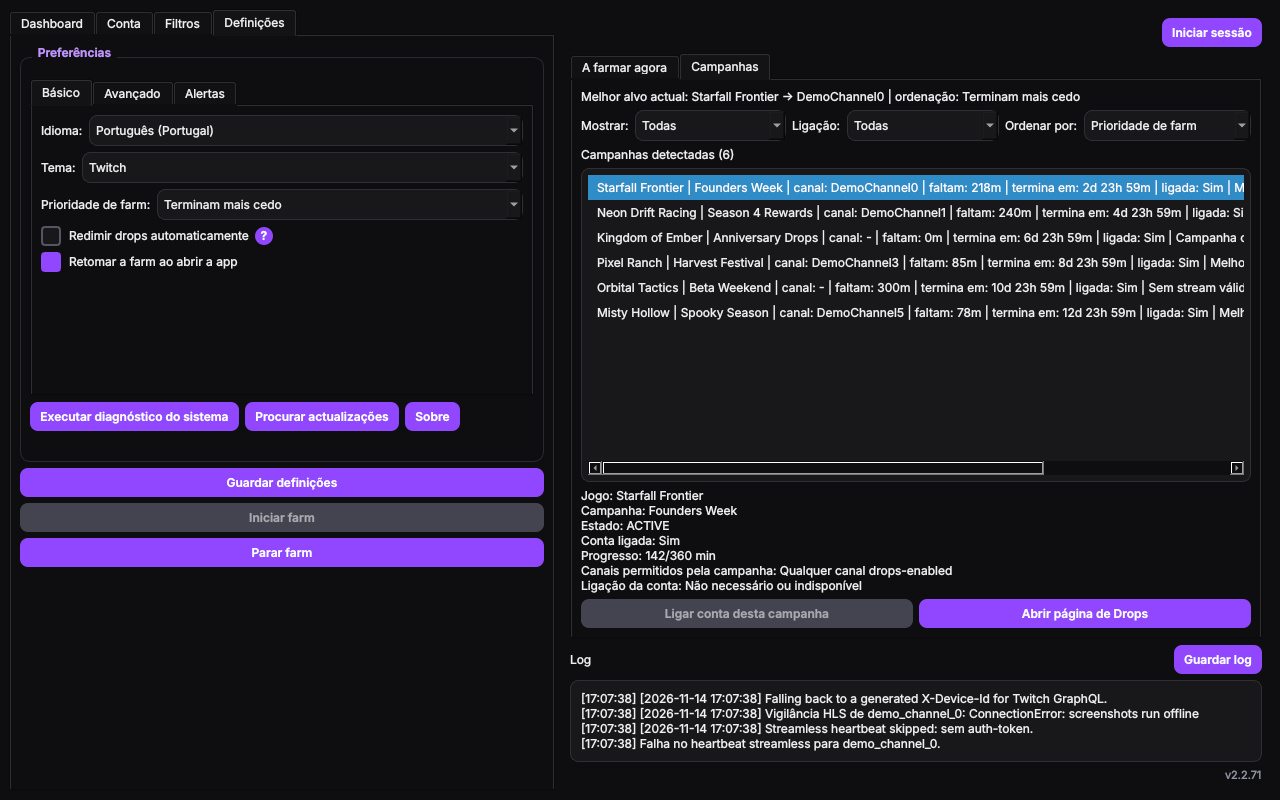
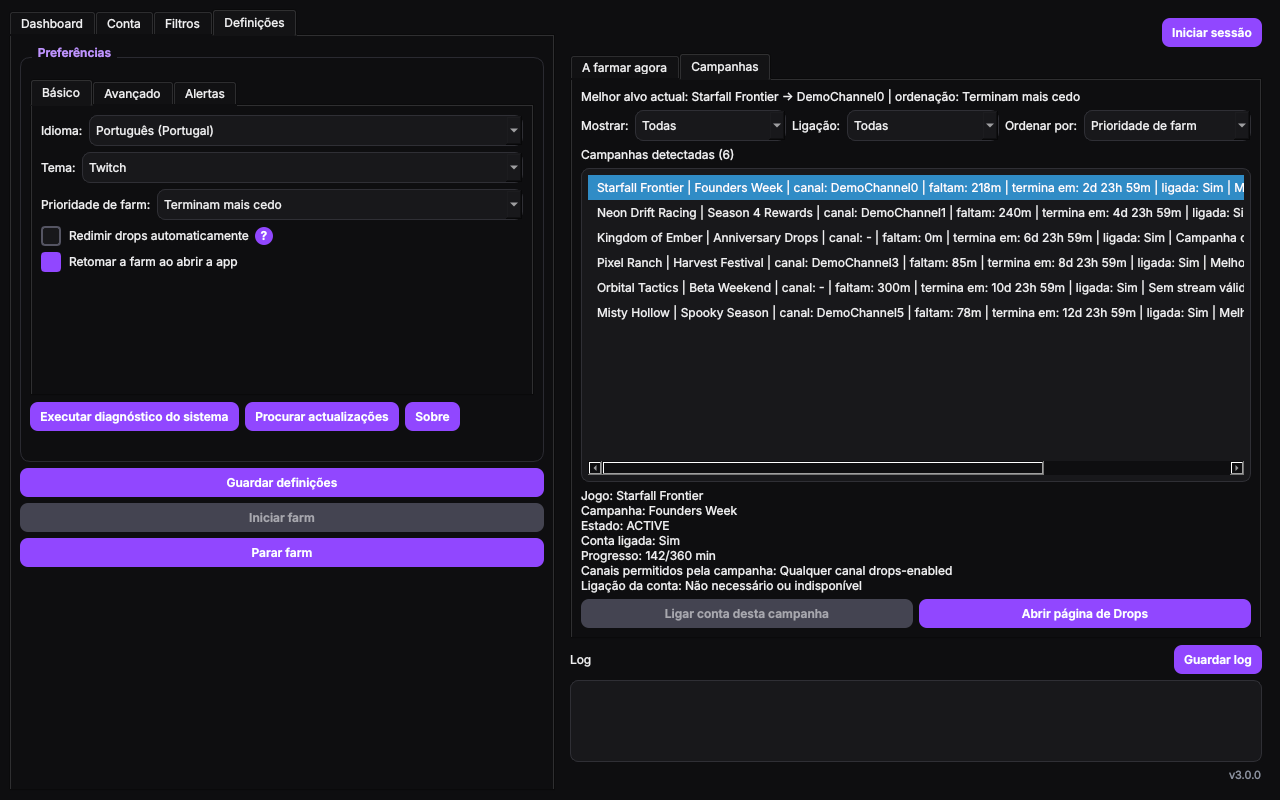
3.0.0: release preparation
Version 3.0.0 with a CHANGELOG entry that summarises 2.2.40 to 2.2.72, bilingual release notes
(docs/releases/v3.0.0.md) that the release workflow uses as the release text, new screenshots,
and two tests that hard-coded the major version now compare with the package version.

Changed region(s): [[0.4375, 0.8438, 0.9375, 0.9375]]

diff --git a/tests/test_log_export.py b/tests/test_log_export.py
@@ -119,7 +119,9 @@ class TestSaveLogButton(unittest.TestCase):
 
         header = "\n".join(MainWindow._log_report_header(fake))
 
-        self.assertIn("Twitch Drop Farmer 2.", header)
+        from twitch_drop_farmer import __version__
+
+        self.assertIn(f"Twitch Drop Farmer {__version__}", header)
         self.assertIn("Farming: running", header)
         self.assertIn("MARVEL SNAP", header)
         self.assertIn("somechannel", header)

diff --git a/tests/test_buttons.py b/tests/test_buttons.py
@@ -253,7 +253,7 @@ class TestAccountButtons(_WindowCase):
         self.window.btn_about.click()
 
         self.msgbox.about.assert_called_once()
-        self.assertTrue(any("2." in str(arg) for arg in self.msgbox.about.call_args.args))
+        self.assertTrue(any(__import__("twitch_drop_farmer").__version__ in str(arg) for arg in self.msgbox.about.call_args.args))
 
 
 class TestFilterButtons(_WindowCase):

diff --git a/src/twitch_drop_farmer/__init__.py b/src/twitch_drop_farmer/__init__.py
@@ -1,4 +1,4 @@
 """Desktop Twitch drop farmer."""
 
 __all__ = ["__version__"]
-__version__ = "2.2.72"
+__version__ = "3.0.0"

diff --git a/docs/releases/v3.0.0.md b/docs/releases/v3.0.0.md
@@ -1,0 +1,68 @@
+# Twitch Drop Farmer 3.0.0
+
+**Português (Portugal)** · English below
+
+Primeira release pública desde a 2.2.39: tudo o que mudou nas versões 2.2.40 a 2.2.72.
+
+## O que há de novo
+
+- **Um farm que se mantém e recupera sozinho**: deixa de saltar de jogo em jogo, segue o fluxo do canal em
+  segundo plano, e um monitor reinicia, muda de canal ou desiste das campanhas que não creditam. Lembra-se das
+  campanhas concluídas e retoma o último jogo e o farm ao abrir.
+- **Muito menos pedidos à Twitch**, com perfis de energia que fazem mesmo o que dizem.
+- **Funciona com a verificação de integridade da Twitch**: usa o registo público quando o dashboard é recusado e
+  reconhece os drops que exigem subscrição.
+- **Iniciar sessão sem esforço**, com a opção de lembrar a sessão neste computador.
+- **Dashboard** com fitas de estado, filtros para ocultar jogos só de subscrição ou inactivos, capas fiáveis e
+  uma mensagem de espera para jogos que acabaram de começar.
+- **Alertas que funcionam** («Drop pronto», campanha a expirar, farm sem progresso...) e **Guardar log** com
+  tokens e cookies removidos.
+
+## Instalação
+
+Descarrega `TwitchDropFarmer-win64.zip`, extrai a pasta toda e abre `TwitchDropFarmer.exe`. O pacote não está
+assinado, por isso o Windows SmartScreen pode avisar na primeira execução. Também podes correr a partir do
+código-fonte (ver o README).
+
+## A saber
+
+- «Redimir drops automaticamente» vem **desligado**: a Twitch costuma rejeitar o claim feito pela app.
+  Reivindica em twitch.tv/drops/inventory quando a app avisar.
+- «Procurar actualizações» só avisa que há uma versão nova; não a instala.
+- Projecto independente, sem ligação à Twitch. Usa por tua conta e risco.
+
+Todas as alterações, versão a versão, estão no [CHANGELOG](https://github.com/NightmareFTW/TwitchDropFarmer/blob/main/CHANGELOG.md).
+
+---
+
+## English
+
+First public release since 2.2.39: everything that changed in versions 2.2.40 to 2.2.72.
+
+### What's new
+
+- **A farm that keeps going and recovers by itself**: it no longer hops from game to game, follows the channel's
+  stream in the background, and a monitor restarts, switches channel or gives up on campaigns that do not
+  credit. It remembers finished campaigns and resumes the last game and the farm when it opens.
+- **Far fewer requests to Twitch**, with energy profiles that really do what they say.
+- **Works with Twitch's integrity check**: it uses the public registry when the dashboard is refused and
+  recognises drops that need a subscription.
+- **Easy sign-in**, with the option to remember the session on this computer.
+- **Dashboard** with status ribbons, filters to hide subscription-only or inactive games, reliable covers and a
+  waiting message for games that have just started.
+- **Alerts that work** ("Drop ready", campaign about to expire, farm without progress...) and **Save log** with
+  tokens and cookies removed.
+
+### Installation
+
+Download `TwitchDropFarmer-win64.zip`, extract the whole folder and open `TwitchDropFarmer.exe`. The package is
+not signed, so Windows SmartScreen may warn you the first time. You can also run from source (see the README).
+
+### Good to know
+
+- "Redeem drops automatically" is **off by default**: Twitch usually rejects claims made by the app. Claim at
+  twitch.tv/drops/inventory when the app tells you.
+- "Check for updates" only tells you a newer version exists; it does not install it.
+- Independent project, not affiliated with Twitch. Use it at your own risk.
+
+Every change, version by version, is in the [CHANGELOG](https://github.com/NightmareFTW/TwitchDropFarmer/blob/main/CHANGELOG.md).

diff --git a/CHANGELOG.md b/CHANGELOG.md
@@ -6,6 +6,43 @@ The format is based on Keep a Changelog, and this project follows Semantic Versi
 
 ## [Unreleased]
 
+## [3.0.0] - 2026-11-14
+
+Primeira release pública desde a 2.2.39. Resume o que mudou nas versões 2.2.40 a 2.2.72, cujo detalhe
+está nas entradas abaixo. As definições existentes continuam a ser lidas; as opções novas arrancam com os
+valores por omissão.
+
+### Destaques
+
+- **Um farm que se mantém e recupera sozinho.** Deixa de saltar de jogo em jogo; segue o fluxo do canal em
+  segundo plano para a Twitch creditar os minutos; um monitor detecta campanhas que não creditam, reinicia, muda
+  de canal e, no limite, desiste. Lembra-se das campanhas já concluídas, do último jogo e, ao abrir, retoma o
+  farm que estava a correr.
+- **Muito menos pedidos à Twitch.** Os perfis de energia (Económico, Balanceado, Agressivo) fazem mesmo o que
+  dizem, e as consultas que a Twitch rejeita com «failed integrity check» já não se repetem a cada ciclo.
+- **Funciona com a verificação de integridade.** O registo público é a alternativa quando a Twitch recusa o
+  dashboard, e os drops que exigem subscrição são reconhecidos e podem ser ocultados.
+- **Iniciar sessão sem esforço**: um botão com uma janela que explica cada passo, e a opção de lembrar a
+  sessão neste computador.
+- **Dashboard** com fitas de estado em cada cartão (`FARMING`, `LIVE`, `CONCLUÍDO`, `SEM CANAIS`...), filtros
+  para ocultar jogos só de subscrição ou inactivos, capas fiáveis e uma mensagem de espera para um jogo que
+  acabou de começar.
+- **Alertas que funcionam**: «Drop pronto», campanha a expirar, farm sem progresso, canal desligado, sessão
+  inválida.
+- **Redimir drops automaticamente vem desligado**, com um «?» a explicar porquê: a Twitch costuma rejeitar o
+  *claim* feito pela app, e cada tentativa falhada só atrai atenção.
+- **Guardar log** grava um ficheiro com tokens e cookies removidos, e o diagnóstico do sistema passou a dizer
+  a verdade.
+- **Definições guardadas automaticamente**, botões auditados um a um, e texto que já não é cortado.
+- **Projecto**: README em PT-PT e EN, capturas de ecrã com dados fictícios, mais de 600 testes automáticos
+  (incluindo um que impede dados pessoais no repositório) e um fluxo de testes no GitHub Actions.
+
+### Conhecido
+
+- O claim feito pela app é frequentemente rejeitado pela Twitch: reivindica em twitch.tv/drops/inventory.
+- «Procurar actualizações» só avisa que há uma versão nova; não a instala.
+- O pacote Windows não está assinado, por isso o SmartScreen pode avisar na primeira execução.
+
 ## [2.2.72] - 2026-11-14
 
 ### Fixed
